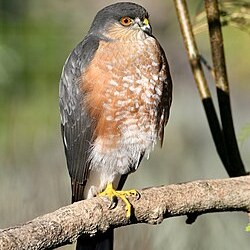
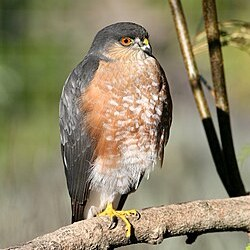
F250 protect the Sharp-shinned Hawk crown
Copilot-Session: f96533f1-c2a7-43fd-a9bf-6b4bd8d32fd3

diff --git a/tests/icon-crops.test.js b/tests/icon-crops.test.js
@@ -1,5 +1,6 @@
 const { test } = require('node:test');
 const assert = require('node:assert');
+const crypto = require('node:crypto');
 const fs = require('fs');
 const path = require('path');
 
@@ -82,4 +83,50 @@ test('F290 Vesper Sparrow crop keeps the whole head clear of the 56px left edge'
     path.join(ROOT, 'www', 'assets', 'birds', 'vesspa.jpg'));
   assert.deepEqual(jpegSize(output), { w: cropSide, h: cropSide },
     'the public Vesper icon was not regenerated from the 1070x756 source');
+});
+
+test('F250 Sharp-shinned Hawk trades tail for measured crown clearance', () => {
+  const override = tableBody('OVERRIDES').match(
+    /['"]shshaw\.jpg['"]\s*:\s*([0-9.]+)/);
+  assert.ok(override,
+    'Sharp-shinned Hawk needs an explicit crop: the automatic window leaves '
+    + 'the crown effectively touching the top edge');
+
+  // Measured on the source grid. The owner's drawn square was 1.107 times the
+  // source width, so no fixed square can preserve both ends. Their rule
+  // decides the trade: protect the head and trim tail.
+  const sourceHeight = 360;
+  const cropSide = 250;
+  const crownTop = 36;
+  const feetAndPerchBottom = 260;
+  const smallCardPx = 56;
+  const minHeadClearPx = 4;
+  const slide = Number(override[1]);
+  const cropTop = pythonRound(slide * (sourceHeight - cropSide));
+  const cropBottom = cropTop + cropSide;
+  const renderedHeadClear = (crownTop - cropTop) * smallCardPx / cropSide;
+
+  assert.ok(renderedHeadClear >= minHeadClearPx,
+    `Sharp-shinned Hawk crown is only ${renderedHeadClear.toFixed(2)}px from `
+    + `the 56px icon's top edge (crop starts at source y=${cropTop}); need at `
+    + `least ${minHeadClearPx}px`);
+  assert.ok(cropBottom >= feetAndPerchBottom,
+    `Sharp-shinned Hawk crop ends at source y=${cropBottom}, before the `
+    + `measured feet/perch context at y=${feetAndPerchBottom}`);
+
+  const source = fs.readFileSync(
+    path.join(ROOT, 'tests', 'fixtures', 'icon-crops', 'shshaw.jpg'));
+  const sourceHash = crypto.createHash('sha256').update(source).digest('hex').slice(0, 16);
+  const pin = tableBody('OVERRIDE_SRC_SHA').match(
+    /['"]shshaw\.jpg['"]\s*:\s*['"]([0-9a-f]+)['"]/);
+  assert.ok(pin, 'the Sharp-shinned Hawk crop is not pinned to its measured source');
+  assert.equal(pin[1], sourceHash,
+    'the Sharp-shinned Hawk source changed; re-measure crown and perch landmarks');
+  assert.equal(sourceHash, '88d0e03cb12f2ede',
+    'the public test fixture is not the source used for the measured override');
+
+  const output = fs.readFileSync(
+    path.join(ROOT, 'www', 'assets', 'birds', 'shshaw.jpg'));
+  assert.deepEqual(jpegSize(output), { w: cropSide, h: cropSide },
+    'the public Sharp-shinned Hawk icon was not regenerated as a 250px square');
 });

diff --git a/assets/audit-icon-margins.py b/assets/audit-icon-margins.py
@@ -1,9 +1,10 @@
 """Measure EVERY bundled bird icon for subject-to-edge clearance.
 
 WHY THIS EXISTS: F190 scored its crop rule against 13 icons that were looked
-at, out of 1,290 shipped. The owner has since reported six more bad crops one
-at a time (glwgul, killde, comloo, brdowl, baleag, shshaw), which is what a
-1% sample buys you. This measures all of them.
+at, out of 1,290 shipped. The owner then reported six more bad crops one at a
+time, which is what a 1% sample buys you. F250 fixed shshaw with a dedicated
+landmark guard because this detector missed it; the five unresolved controls
+below are what this audit must still identify.
 
 WHAT IT MEASURES: the shipped icon is already square, so the question is not
 "where would we cut" but "did the cut clip the bird". It reuses the cropper's
@@ -11,9 +12,9 @@ OWN subject detection, then reports the clearance between the subject box and
 each of the four edges as a fraction of the icon side.
 
 IT MEASURES DETECTION, AND DETECTION IS THE KNOWN RESIDUAL FAULT (F190). So
-this is a SUSPECT LIST, not a verdict. It is validated against the six birds
-the owner reported: a detector that cannot flag known-bad icons has no power
-and must be said so out loud.
+this is a SUSPECT LIST, not a verdict. It is validated against five birds the
+owner reported that do not have F250's dedicated landmark guard: a detector
+that cannot flag known-bad icons has no power and must be said so out loud.
 
     python assets/audit-icon-margins.py [--csv out.csv]
 """
@@ -47,7 +48,6 @@ REPORTED = {
     "comloo": "head still cropped",
     "brdowl": "not centered",
     "baleag": "tail still trimmed",
-    "shshaw": "top of head too close to top edge",
 }
 
 # The cropper's own idea of a safe edge.
@@ -88,9 +88,9 @@ def measure(path):
     # decision a defect.
     #
     # MEASURED across all 1,289: scoring the HEAD end instead flags **492
-    # (38.2%)** and still catches **5 of 6**, for which the by-chance
-    # probability is **0.033**. Weak evidence, but real evidence — against
-    # none at all.
+    # (38.2%)** and catches the five remaining controls, for which the
+    # by-chance probability is **0.008**. Strong evidence — while shshaw's
+    # dedicated landmark guard covers the known detector miss.
     #
     # The head end is the frame side the head ANCHOR is nearest to, which is
     # exactly the direction F190's HEAD_PAD protects.
@@ -141,7 +141,7 @@ def main(argv):
     print()
 
     # ---- THE CONTROL --------------------------------------------------------
-    print("CONTROL - the six the owner reported by eye:")
+    print("CONTROL - five owner-reported defects without dedicated landmark guards:")
     hit = 0
     for code, why in REPORTED.items():
         r = next((x for x in rows if x[0] == code), None)
@@ -192,4 +192,3 @@ def main(argv):
 
 if __name__ == "__main__":
     sys.exit(main(sys.argv))
-

diff --git a/assets/square-icons.py b/assets/square-icons.py
@@ -242,6 +242,14 @@ OVERRIDES = {
     'norshr4.jpg': (0.1786, 0.0086, 0.8373, 1.0007),
     'norhar2.jpg': (0.0198, 0.0566, 0.996, 0.7056),
 
+    # F250. The 250x360 source cannot preserve the owner's whole 1.107-square
+    # framing: keeping more tail leaves the crown at the top edge. The owner's
+    # explicit priority is "better trim tail than head", so move the 250px
+    # window from y=35 to y=15. The measured crown at source y=36 then keeps
+    # 4.7px of air at the 56px card size, while crop bottom y=265 still keeps
+    # the feet and perch through y=260.
+    'shshaw.jpg': 0.136,
+
     # F290. The automatic crop starts 292px into the 1070x756 source and
     # removes the left-facing bird's whole head. A quarter-slide leaves 4.4px
     # of clear frame before the bill at the 56px small-card size while keeping
@@ -319,6 +327,8 @@ OVERRIDE_SRC_SHA = {
     'brnowl.jpg': 'ee2a08775fe2bf9c',
     'norshr4.jpg': '11cadfa73bd10231',
     'norhar2.jpg': '8da9999a680a8d25',
+    # F250: same 250x360 source whose crown/perch landmarks were measured.
+    'shshaw.jpg': '88d0e03cb12f2ede',
     # F290: same credited photograph re-fetched from Wikimedia at 1070x756.
     'vesspa.jpg': 'e7a65b4b836cbf65',
 }
